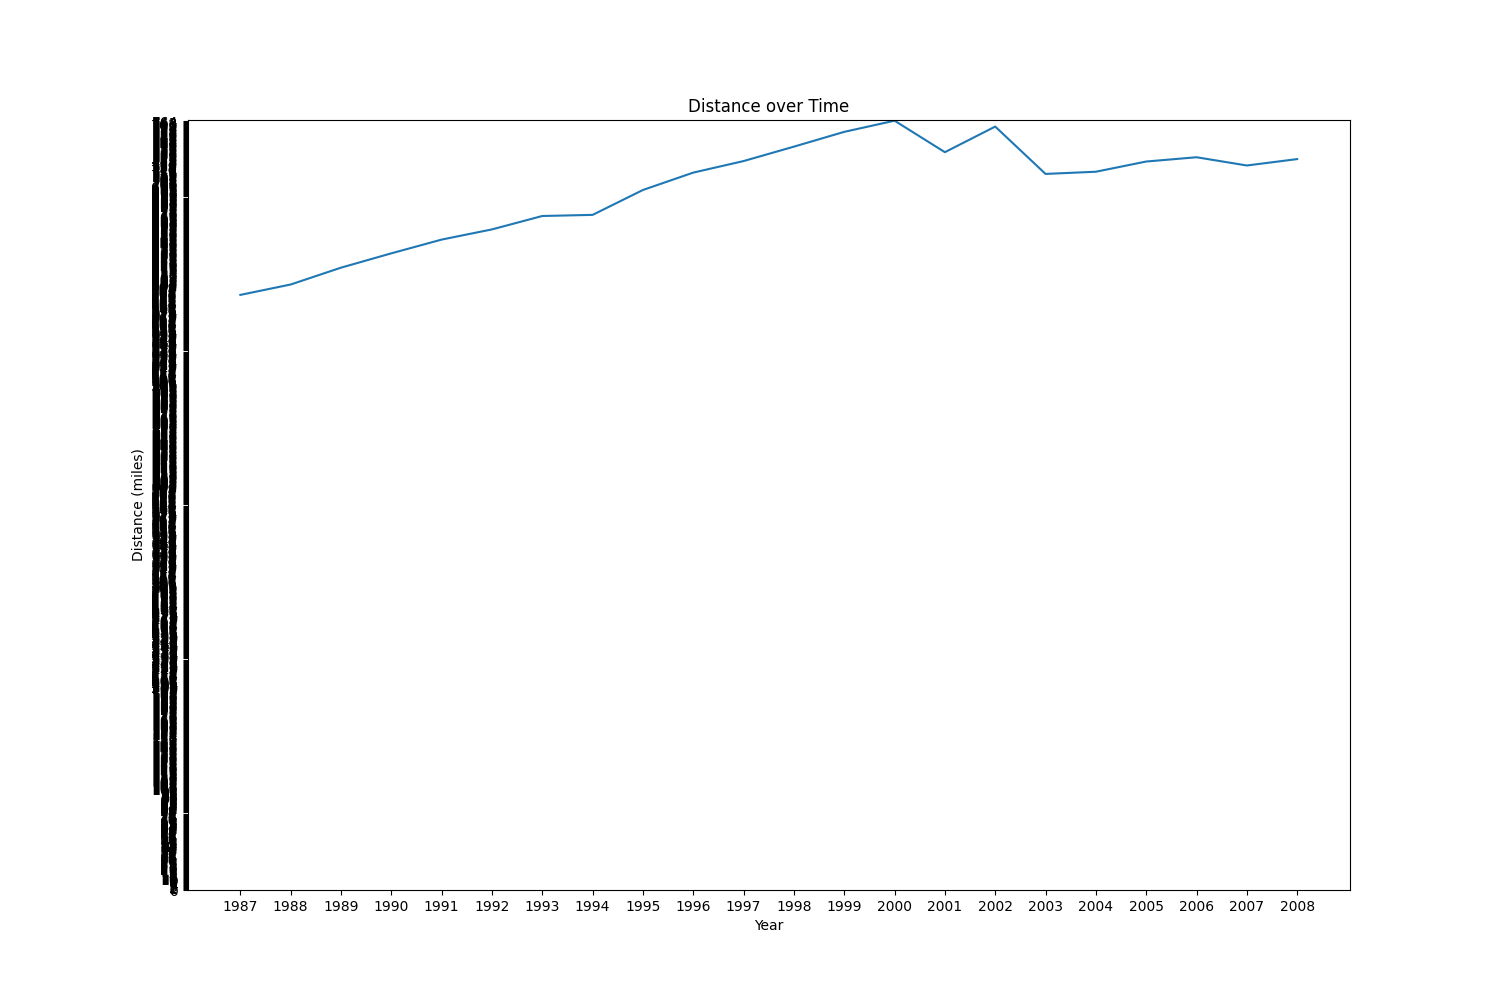
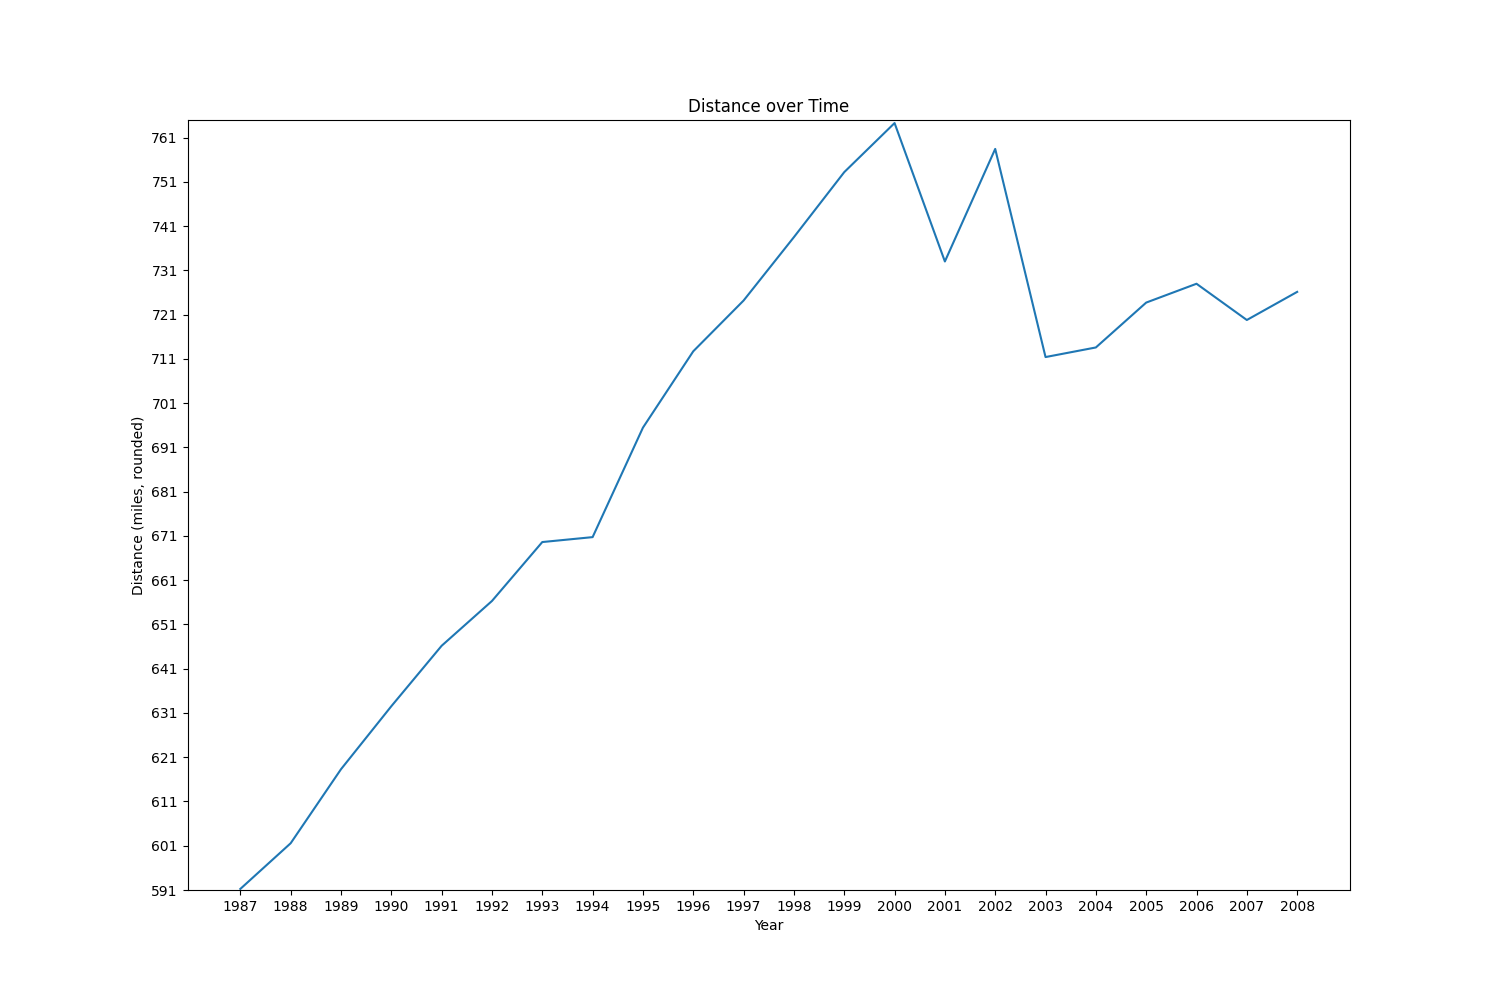
Distance average done

diff --git a/shell.py b/shell.py
@@ -140,12 +140,12 @@ class Shell(cmd.Cmd):
             print("name: ", name, f"{i}/{len(self.df)}")
             i+=1
             
-            # get the list of delays
+            # get the list of Distances
             distance = file.select("Distance")
-            # filter out the NA values
+            # get the average
             avg_distance = distance.agg(F.avg("Distance")) #DataFrame[avg(Distance): double]
             
-            # get the average delay of the file
+            
             avg_distance = avg_distance.first()[0]
             
             max_avg = max(max_avg, avg_distance)
@@ -153,15 +153,17 @@ class Shell(cmd.Cmd):
             file_names.append(name)
         
         plt.plot(file_names, avg_distance_dict.values())
-        print(avg_distance_dict.values())
+        for name, value in avg_distance_dict.items():
+            avg_distance_dict[name] = round(value)
+            
         plt.xlabel("Year")
-        plt.ylabel("Distance (miles)")
+        plt.ylabel("Distance (miles, rounded)")
         plt.title("Distance over Time")
         # plt.legend()
-        plt.ylim(round(min(avg_distance_dict.values())), round(max(avg_distance_dict.values()))+1, 10)
+        plt.ylim(round(min(avg_distance_dict.values())), round(max(avg_distance_dict.values()))+1)
         print(f"{range(round(min(avg_distance_dict.values())), round(max(avg_distance_dict.values()))+1), 10}")
         # Set the y-axis ticks
-        plt.yticks(range(0, round(max(avg_distance_dict.values()))+1))
+        plt.yticks(range(round(min(avg_distance_dict.values())), round(max(avg_distance_dict.values()))+1, 10))
         print(round(max_avg))
         plt.xticks(range(0, len(file_names), 1))
 
